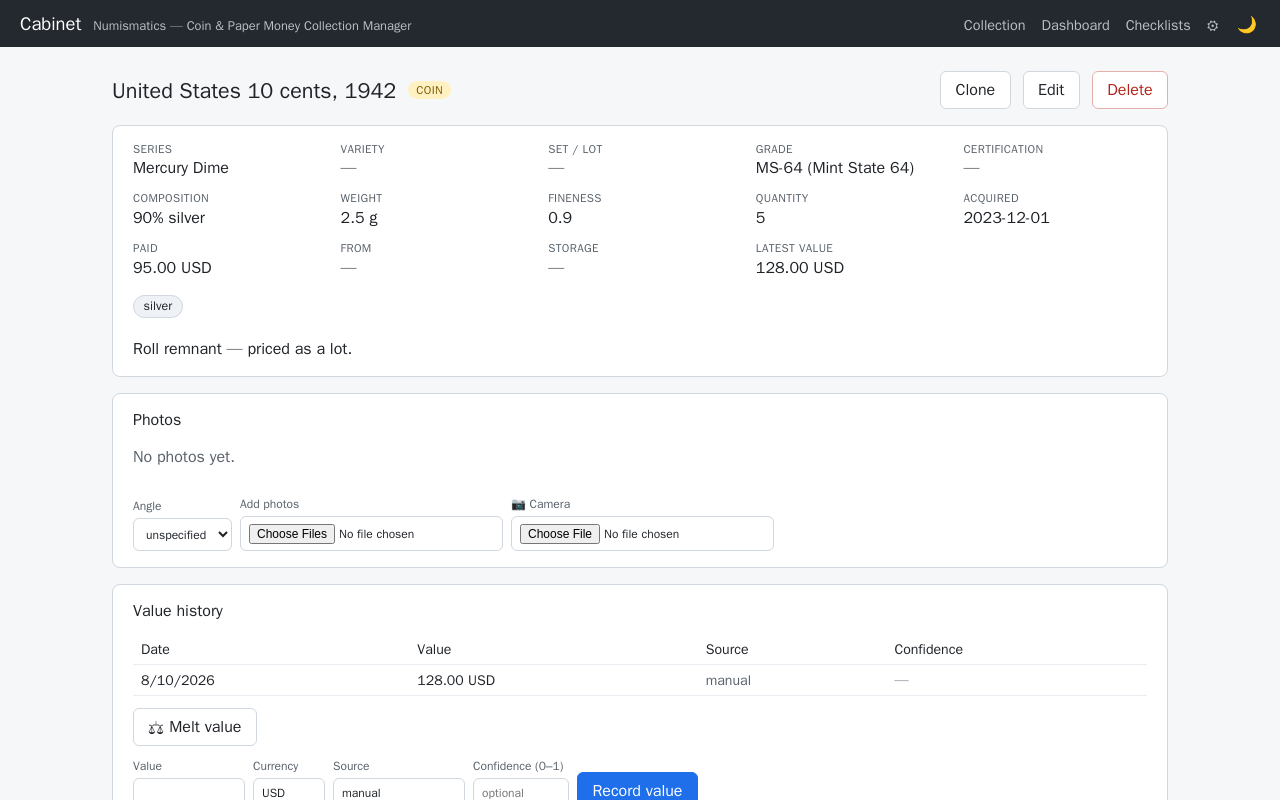
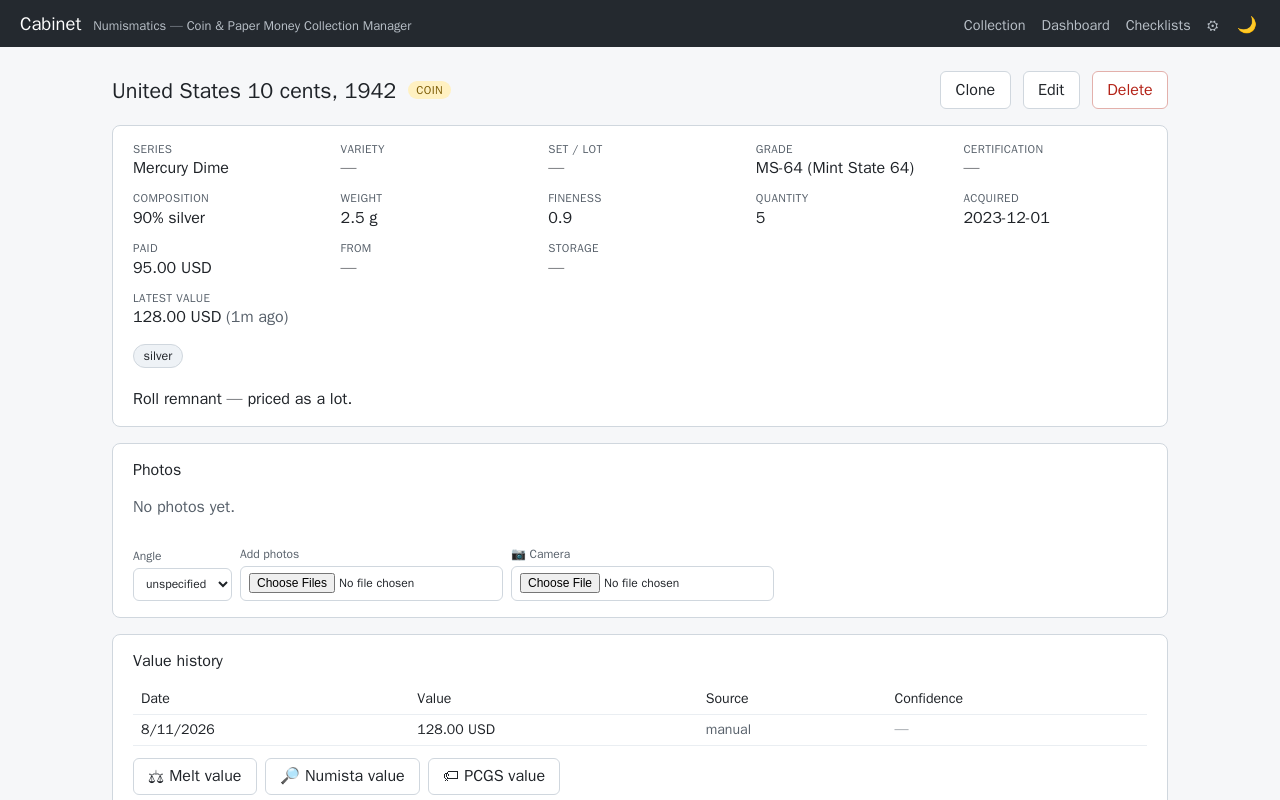
Sync docs with v0.10.1, add a Settings screenshot
Docs had drifted further than just the version number - the README was
still listing the Numista/PCGS adapters as not-yet-built, and roadmap.md's
status line hadn't moved since pricing M1, predating M2/M3 and everything
from this session (value differentiation, value_strategy, scheduled
Numista/PCGS refresh, the collection list's SOURCE column).

Updated CLAUDE.md, README.md, docs/roadmap.md, docs/api.md,
docs/price-sources.md, docs/data-model.md to describe what's actually
shipped. Added docs/screenshots/settings.png, captured against a freshly
reseeded demo stack with zero price-source keys configured - verified via
the API before capturing (both sources: configured=false, secret_hint=null)
and visually after. Regenerated the other four screenshots against the same
clean data so the collection list and item detail shots reflect the new
SOURCE column and "time since" label instead of the pre-session UI.

Recorded a real Git-Bash/Docker gotcha hit while doing this:
MSYS_NO_PATHCONV=1 is needed on the screenshot capture command from Git
Bash on Windows, or MSYS silently mangles the container-side /out path and
every capture reports success while writing nothing to the host.

diff --git a/README.md b/README.md
@@ -4,18 +4,17 @@
 
 [![CI](https://github.com/jsaumer/cabinet-numismatics/actions/workflows/ci.yml/badge.svg)](https://github.com/jsaumer/cabinet-numismatics/actions/workflows/ci.yml)
 [![License: MIT](https://img.shields.io/badge/license-MIT-blue.svg)](LICENSE)
-![Version](https://img.shields.io/badge/version-0.9.1-informational)
+![Version](https://img.shields.io/badge/version-0.10.1-informational)
 
 A self-hosted, single-user web application for cataloging a coin and paper
 money collection, managing photos of each item, and tracking estimated market
 value over time. Runs as a small Docker Compose stack; no external accounts
 or API keys required.
 
-**Status: v0.9.1 — feature-complete and in daily use.** Pre-1.0 signals that
+**Status: v0.10.1 — feature-complete and in daily use.** Pre-1.0 signals that
 the HTTP API may still change; the data model and migration path are stable.
-Deliberately open: a photo-niceties bundle (lightbox, drag-and-drop upload),
-sold-listing comparables, and the Numista/PCGS price adapters (their
-credentials are already configurable). See the
+Deliberately open: a photo-niceties bundle (lightbox, drag-and-drop upload)
+and sold-listing comparables. See the
 [roadmap](docs/roadmap.md) and [changelog](CHANGELOG.md).
 
 > **Deploying it?** Cabinet has no built-in login by design — put it behind an
@@ -28,8 +27,10 @@ Shown with the bundled demo collection (`python scripts/seed_demo.py`).
 | Collection list | Dashboard |
 |---|---|
 | [![Collection list](docs/screenshots/collection.png)](docs/screenshots/collection.png) | [![Dashboard](docs/screenshots/dashboard.png)](docs/screenshots/dashboard.png) |
-| **Item detail** | **Dark mode** |
-| [![Item detail](docs/screenshots/item-detail.png)](docs/screenshots/item-detail.png) | [![Dark mode](docs/screenshots/dark-mode.png)](docs/screenshots/dark-mode.png) |
+| **Item detail** | **Settings** |
+| [![Item detail](docs/screenshots/item-detail.png)](docs/screenshots/item-detail.png) | [![Settings](docs/screenshots/settings.png)](docs/screenshots/settings.png) |
+| **Dark mode** | |
+| [![Dark mode](docs/screenshots/dark-mode.png)](docs/screenshots/dark-mode.png) | |
 
 ## Features
 
@@ -63,10 +64,18 @@ Shown with the bundled demo collection (`python scripts/seed_demo.py`).
 - **Manual estimates**: record researched values (dealer quote, auction
   result, price guide) with source and optional confidence — kept as
   append-only history, never overwritten.
-- **Melt value**: one-click and scheduled automatic estimates for
-  precious-metal items (spot price × weight × fineness × quantity), using
-  free keyless spot data with a 12-hour cache. A melt refresh never
-  supersedes a manual value.
+- **Pluggable price sources**: melt value (spot price × weight × fineness ×
+  quantity, keyless), Numista (coins and notes, priced by catalog ref +
+  grade), and PCGS (US coins, by cert number or catalog ref + grade,
+  preferring realized auction prices over the price guide). One-click and
+  scheduled refresh for all three — Numista and PCGS off by default, with
+  Numista's cadence (7/14/30 days) shown against its 2,000/month quota.
+- **Value differentiation**: the item page shows every configured source's
+  own latest value side by side (never blended), each with a "time since"
+  label. A `value_strategy` setting picks the single blended number shown
+  in the items list, export, and dashboard totals: latest estimate,
+  a preferred source, or an average — with a `SOURCE` column on the list
+  showing which one produced it.
 - **Multi-currency**: totals are shown in one display currency; other
   currencies convert at cached daily ECB rates, and anything unconvertible
   is excluded and counted — never silently mixed.
@@ -88,10 +97,10 @@ Shown with the bundled demo collection (`python scripts/seed_demo.py`).
 - **Backup/restore**: one script captures the database dump and photo archive
   together, with a rehearsed restore path — see
   [docs/backup-restore.md](docs/backup-restore.md).
-- **Configurable pricing**: a Settings page for display currency, melt
-  cadence, and price-source credentials — stored **encrypted at rest** and
-  never readable back through the API
-  (see [docs/security.md](docs/security.md)).
+- **Configurable pricing**: a Settings page for display currency, the
+  blended-value strategy, per-source refresh cadence, and price-source
+  credentials — stored **encrypted at rest** and never readable back
+  through the API (see [docs/security.md](docs/security.md)).
 
 ## Architecture
 

diff --git a/docs/api.md b/docs/api.md
@@ -34,8 +34,12 @@ described without an auth layer; add one before exposing the app publicly.
 `value_min`/`value_max` (latest estimate), `q` (substring match over
 notes/series/country/denomination/cert numbers/catalog refs/tags), `limit`,
 `offset`, `sort` (field name or `grade`, `-` prefix for descending). The list
-response includes each item's primary photo/thumbnail keys and latest
-estimated value.
+response includes each item's primary photo/thumbnail keys and its latest
+estimated value: `latest_value` + `latest_value_currency`, plus
+`latest_value_source` naming which source produced it (an adapter key, a
+manual entry's own source text, or `average`) — resolved by the app-wide
+`value_strategy` setting (see Settings, below), not simply "whichever
+estimate is newest."
 
 Item payloads accept `tags` (list of names, get-or-create) and `catalog_refs`
 (list of `{catalog, ref_code}`). CSV import consumes the export format;
@@ -82,7 +86,11 @@ or the source is switched off, and 502 when the upstream is unreachable. See
 [price-sources.md](price-sources.md). An in-process scheduler re-runs stale
 melt estimates every 12h (estimates older than `REESTIMATE_DAYS`, default 7;
 `0` disables); a melt refresh never supersedes an item whose latest estimate
-is manual.
+is manual. The same 12h loop also refreshes Numista and/or PCGS when their
+own cadence is switched on in Settings (each off by default) — independently
+of melt and of whichever source currently wins an item's overall-latest
+estimate, since `value_strategy` may prefer or average a source that isn't
+"latest" right now.
 
 ## Stats
 
@@ -132,6 +140,17 @@ source credentials (Numista API key, PCGS token). **Secrets are write-only and
 encrypted at rest**: reads return only a configured flag and a last-4 hint,
 never the value, and stored credentials are Fernet-encrypted before they reach
 the database. See [security.md](security.md).
+
+Also covered: `value_strategy` (`latest` / `preferred_source` / `average`)
+and `preferred_source`, which together control the single blended value used
+by the items list, CSV/XLSX export, and dashboard totals (the item page
+itself always shows every source's own latest value, unaffected by this
+setting); and each source's scheduled-refresh cadence —
+`numista_refresh_days` (`null` for off, else `7`/`14`/`30`) and
+`pcgs_auto_refresh` (bool, fixed weekly when on). The response also reports
+`numista_priceable_items`/`pcgs_priceable_items` — owned items eligible for
+each source — so the UI can show the real projected monthly call count
+before you turn Numista's cadence on.
 
 ## Checklists (completeness tracking)
 

diff --git a/CLAUDE.md b/CLAUDE.md
@@ -7,7 +7,7 @@ changes, update this file and the docs it points to in the same commit. -->
 Cabinet is a single-user, self-hosted web application for managing a coin and
 paper money collection. Subtitle: "Numismatics — Coin & Paper Money Collection
 Manager." Repo name is `cabinet-numismatics`; UI/display name and OpenAPI title
-are "Cabinet." **On GitHub (private for now) under MIT, released as v0.9.1** — treat it as
+are "Cabinet." **On GitHub (private for now) under MIT, released as v0.10.1** — treat it as
 an open-source project: keep CONTRIBUTING/CHANGELOG/docs current, and bump the
 version in `backend/pyproject.toml` (surfaced by `GET /api/health`) with the
 changelog entry when releasing.
@@ -103,9 +103,21 @@ grade), preferring realized auction prices over the price guide. Both are
 selected with `POST /api/items/{id}/estimate?source=`, resolved through
 `pricing.get_adapter`, and share `NotApplicable` (422) / `SourceUnavailable`
 (502) plus `pricing.cached_response` over the `source_cache` table (migration
-`0009`). **Next: pricing M4 — estimate provenance** (store each source's
-response summary in `price_estimates.details`), then M5 pricing reports. Also
-open: photo-niceties bundle,
+`0009`). Value differentiation + strategy: the item page shows every
+configured source's own latest value as a chip (with a "time since" label),
+never blending them; a `value_strategy` setting (latest / preferred source /
+average, Settings → General) controls the single blended number used
+everywhere else — items list (with a `SOURCE` column showing which source or
+"average" produced it), CSV/XLSX export, dashboard totals — via one shared
+`pricing.resolve_display_value`. Scheduled refresh now covers Numista
+(7/14/30-day cadence with projected monthly-call-count shown against its
+2,000/month quota) and PCGS (fixed weekly; generous 1,000/day quota) in
+addition to melt, off by default, each kept fresh independent of whichever
+source currently wins an item — necessary since `value_strategy` may prefer
+or average a source that isn't "latest." Manual per-item refresh shows a
+success message. **Next: pricing M4 — estimate provenance** (store each
+source's response summary in `price_estimates.details`), then M5 pricing
+reports. Also open: photo-niceties bundle,
 Phase 6 / homelab deployment (Traefik + Authentik, CI). See docs/roadmap.md.
 
 ## Notes for working in Claude Code (desktop app)

diff --git a/docs/screenshots/README.md b/docs/screenshots/README.md
@@ -7,7 +7,15 @@ These illustrate the README. They are not used by the application.
 | `collection.png` | `/` | light |
 | `dashboard.png` | `/dashboard` | light |
 | `item-detail.png` | `/items/<id>` | light |
+| `settings.png` | `/settings` | light |
 | `dark-mode.png` | `/dashboard` | dark |
+
+`settings.png` is captured straight off the demo seed with no price-source
+keys configured — both Numista and PCGS show "(not configured)" and no
+`secret_hint`. If you ever capture it with a key actually saved, double-check
+the image doesn't show the masked hint before committing it; a fake,
+obviously-non-functional key (e.g. `demo-key-not-real`) is the safe way to
+show that state.
 
 ## Regenerating them
 
@@ -27,19 +35,24 @@ so the proxy is reachable as `proxy`:
 ITEM=$(curl -s 'http://localhost/api/items?limit=100' \
   | python3 -c 'import json,sys; print(next(i["id"] for i in json.load(sys.stdin)["items"] if i["grade"] and i["latest_value"]))')
 
-docker run --rm --network cabinet-numismatics_default \
+MSYS_NO_PATHCONV=1 docker run --rm --network cabinet-numismatics_default \
   -v "$PWD/docs/screenshots:/out" \
   mcr.microsoft.com/playwright:v1.49.0-jammy sh -c "
     P='npx -y playwright@1.49.0 screenshot --viewport-size=1280,800 --wait-for-timeout=4000'
     \$P --color-scheme=light http://proxy/                 /out/collection.png
     \$P --color-scheme=light http://proxy/dashboard        /out/dashboard.png
     \$P --color-scheme=light http://proxy/items/$ITEM      /out/item-detail.png
+    \$P --color-scheme=light http://proxy/settings         /out/settings.png
     \$P --color-scheme=dark  http://proxy/dashboard        /out/dark-mode.png
   "
 ```
 
 Pin the `playwright@` version to match the image tag — `npx` otherwise
 installs the newest release, which then can't find the image's browsers.
+`MSYS_NO_PATHCONV=1` matters if you're running this from Git Bash on
+Windows: without it, MSYS rewrites the container-side `/out` path as if it
+were a Windows path too, silently breaking the bind mount — the container
+reports every capture as successful, but nothing lands on the host.
 
 ## Notes
 

diff --git a/docs/price-sources.md b/docs/price-sources.md
@@ -68,6 +68,15 @@ Requirements and limits:
   no request at all.
 - Confidence is medium by design: these are collector estimates, not realized
   auction prices. Melt remains the higher-confidence floor for bullion.
+- **Scheduled refresh** (off by default): a cadence of every 7, 14, or 30
+  days in Settings, alongside the same 12h loop that refreshes melt. Each
+  estimate costs 2 calls (issues + prices), so Settings shows the real
+  projected monthly count for your collection's priceable-item count against
+  the 2,000/month quota — weekly refresh only stays under budget for roughly
+  the first ~230 priceable items. Refresh keeps Numista's own data current
+  independent of whichever source currently wins an item's overall-latest
+  estimate, since `value_strategy` (see [api.md](api.md)) may prefer or
+  average a source that isn't "latest" right now.
 
 A missing prerequisite answers 422 with what to fix; an upstream failure or an
 exhausted quota answers 502.
@@ -102,6 +111,10 @@ Requirements and limits:
   means the request values were malformed, and `"No data found"` means no such
   coin. Both surface as 422 with the reason. A 500 usually means the token has
   expired — that surfaces as 502 saying so.
+- **Scheduled refresh** (off by default): a simple weekly on/off toggle in
+  Settings, no cadence choice needed — 1 call per estimate against a
+  1,000/day quota comfortably covers weekly refresh at any realistic
+  collection size, so Settings shows no quota caveat here (unlike Numista's).
 
 ### Checking a source against the live API
 

diff --git a/docs/roadmap.md b/docs/roadmap.md
@@ -7,10 +7,13 @@ cataloging, valuation, and insights. Open-sourcing is a possible endgame, so
 phases that matter for that (docs, packaging, polish) are called out explicitly
 rather than assumed.
 
-**Status (August 2026): released as v0.9.1.** Phases 0–5 are built (Phase 5
-minus the photo-niceties bundle), pricing-program M1 is done, and the
-open-source readiness track (Phase 6) is complete apart from application-level
-login, deliberately deferred in favour of proxy-level auth.
+**Status (August 2026): released as v0.10.1.** Phases 0–5 are built (Phase 5
+minus the photo-niceties bundle), pricing-program M1–M3 are done — settings
+backbone, the Numista and PCGS adapters, per-source value display with a
+configurable blended-value strategy, and scheduled auto-refresh for both
+sources — and the open-source readiness track (Phase 6) is complete apart
+from application-level login, deliberately deferred in favour of
+proxy-level auth.
 A ✔ marks shipped items below. What remains, all optional: the photo-niceties
 bundle, the sold-listing comps price source, the pricing program's last two
 milestones (M4 estimate provenance, M5 pricing reports), in-app backup

diff --git a/docs/data-model.md b/docs/data-model.md
@@ -11,8 +11,11 @@ plus `items.variety` / `set_id` / `custom_fields`; `0007` `item_events` and
 `checklists` + `checklist_slots`.
 
 Revision `0008` (pricing program M1) added `app_settings` — key/value JSON
-settings (display currency, source toggles, API credentials, melt cadence),
-read through `app/services/app_settings.py` with defaults and env fallbacks.
+settings (display currency, source toggles, API credentials, melt cadence;
+later grew `value_strategy`/`preferred_source` for the blended-value display
+and `numista_refresh_days`/`pcgs_auto_refresh` for scheduled refresh — no
+migration needed, since it's a generic key/value table), read through
+`app/services/app_settings.py` with defaults and env fallbacks.
 
 **Phase 5 tables in brief:** `exchange_rates` (base+quote PK, cached daily
 rate); `sets` (id, unique name, notes; `items.set_id` SET NULL on delete);
